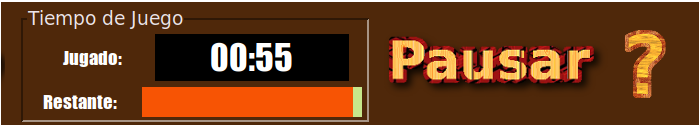
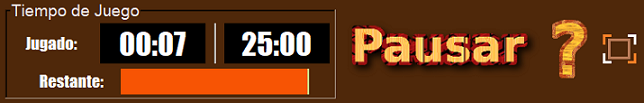
Agregado botón de pantalla completa y su explicación en la ayuda

diff --git a/codigo/interfaz/ayuda.py b/codigo/interfaz/ayuda.py
@@ -27,11 +27,12 @@ def general(dirAyuda):
 def juego(dirAyuda):
     col = [     #Ayuda 14 = tablero, ayuda 0 = timer
         [sg.Image(filename=f'{dirAyuda}ayuda 14.png'), sg.Multiline('Vista general del tablero. A continuación se encuentra detallada la información sobre cómo jugar:', font=('Arial, 16'), text_color='white', disabled=True, size=(25,10),background_color='#4f280a')],
-        [sg.Image(filename=f'{dirAyuda}ayuda 0.png')], [sg.Multiline('En el area superior se encuentra el indicador de tiempo y los botones de pausa y ayuda.\n'
-                                                                     '\n1) TEMPORIZADOR: A la derecha de "Jugado" se puede visualizar el tiempo transcurrido. '
+        [sg.Image(filename=f'{dirAyuda}ayuda 0.png')], [sg.Multiline('En el area superior se encuentra el indicador de tiempo, el botón de pausa, ayuda y pantalla completa.\n'
+                                                                     '\n1) TEMPORIZADOR: A la derecha de "Jugado" se puede visualizar el tiempo transcurrido y el tiempo total. '
                                                                      'La barra de color naranja indica el tiempo restante, que se reduce a medida que progresa la partida.\n'
-                                                                     '2) Si se oprime el boton de pausa, la partida queda detenida y se despliega un menú de opciones (abajo explicadas).\n'
-                                                                     '3) El simbolo \"?\" abre esta misma ayuda.\n ', font=('Arial, 12'), text_color='white', disabled=True, size=(40,8),background_color='#4f280a')],
+                                                                     '2) PAUSA: Si se oprime, la partida queda detenida y se despliega un menú de opciones (abajo explicadas).\n'
+                                                                     '3) Botón "?": Abre esta misma ayuda.\n'
+                                                                     '4) Botón "[ ]" (el último en la fila): Cambia a pantalla completa.', font=('Arial, 12'), text_color='white', disabled=True, size=(40,8),background_color='#4f280a')],
         [sg.Image(filename=f'{dirAyuda}ayuda 8.png'), #Botón para ver configuración de nivel
          sg.Multiline('Sobre los avatares de los jugadores se encuentra un botón que, al presionarlo, '
                  'mostrará la configuración elegida para la partida.', font=('Arial, 12'), text_color='white', disabled=True, size=(30,6),background_color='#4f280a')],
@@ -49,10 +50,10 @@ def juego(dirAyuda):
                  'En el botón de preferencias pueden verse todos los puntajes para esa partida.', font=('Arial, 12'), text_color='white',disabled=True, size=(20,8),background_color='#4f280a')],
 
         [sg.Image(filename=f'{dirAyuda}ayuda 40.png')],  # atril validado
-        [sg.Multiline('Al momento de clickear en una ficha se habilitará el botón Deshacer.'
-                      'Este le permite  corregir errores al momento de formar una palabra '
-                      'o si simplemente se arrepintió. Puede hacer uso dle mismo hasta eliminar todas las fichas '
-                      'seleccionadas o simplemente una',
+        [sg.Multiline('Al clickear en una o más fichas se habilitará el botón Deshacer, que '
+                      'permite corregir errores al momento de formar una palabra '
+                      'o deshacerla completamente si se arrepintió. Puede volver atrás con cada ficha '
+                      'que necesite.',
                       font=('Arial, 12'), text_color='white', disabled=True, size=(40, 8),
                       background_color='#4f280a')],
 

diff --git a/codigo/interfaz/dibujar.py b/codigo/interfaz/dibujar.py
@@ -64,14 +64,11 @@ class Dibujar():
             punto = atril.get_ficha(i)[letra]
             fichas.append(sg.Button(image_filename=f'{self._directorio_fichas}ficha {letra}.png', key=f'ficha {str(i)}', pad=(0, None), image_size=self._ficha_tamano, button_color=('white','#4f280a'),tooltip= f'{punto} puntos'))
 
-        temporizador = [[sg.Text('Jugado:', size=(10, 1), font=('Impact', 14), justification='center', text_color='white'),sg.Text('00:00', size=(10, 1), font=('Impact', 26), justification='center', text_color='white',
-                        key='timer', background_color='black'),],
+        temporizador = [[sg.Text('Jugado:', size=(10, 1), font=('Impact', 14), justification='center', text_color='white'), sg.Text('00:00', size=(7, 1), font=('Impact', 26), justification='center', text_color='white',
+                        key='timer', background_color='black'), sg.VerticalSeparator(), sg.Text('00:00', size=(7, 1), font=('Impact', 26), justification='center', text_color='white', key='tiempo_total', background_color='black')],
                         [sg.Text('Restante:', size=(10, 1), font=('Impact', 14), justification='center', text_color='white'),sg.ProgressBar(max_value=0, orientation='horizontal', size=(20, 30), key='progreso'),]]
 
-        tiempo = [[sg.Frame(
-                  layout= temporizador,
-                  title='Tiempo de Juego' ,title_color='#ece6eb', relief=sg.RELIEF_SUNKEN,font=('Italic 14'),
-                        element_justification='center', key='contTiempo'),]]
+        tiempo = [[sg.Frame(layout= temporizador, title='Tiempo de Juego', title_color='#ece6eb', relief=sg.RELIEF_SUNKEN, font=('Italic 14'), element_justification='center', key='contTiempo')]]
 
         top = [sg.Image(f'{self._directorio_media}scrabbleArLogo.png'),
               sg.Column(tiempo),
@@ -79,7 +76,8 @@ class Dibujar():
                           key='pausar'),
                sg.Button(image_filename=f'{self._directorio_media}AYUDA.png', button_color=('black', '#4f280a'),
                          pad=self._padin, border_width=0, tooltip='Obtenga ayuda clickeando aquí',
-                         key='ayuda')
+                         key='ayuda'),
+                sg.Button(image_filename=f'{self._directorio_media}fullscreen.png', font=('Arial', 14), border_width=0, tooltip='Cambiar a pantalla completa',key='pantallaCompleta')
                ]
 
         #Contenedores para los avatares, el nombre y el puntaje
@@ -131,6 +129,9 @@ class Dibujar():
         #Y el tiempo de finalización
         self._setTiempoFin(self._getTiempoInicio() + (minutos * 60))
         self._getInterfaz()['progreso'].UpdateBar(0, max=(self._getTiempoFin() - self._getTiempoInicio()))
+        #Actualiza el tiempo total en la interfaz
+        restante = self.getTiempoRestante()
+        self._getInterfaz()['tiempo_total'].Update('{:02d}:{:02d}'.format(int(restante // 60), int(restante % 60)))
 
     def actualizarTimer(self):
         '''Actualiza el timer en la interfaz.'''
